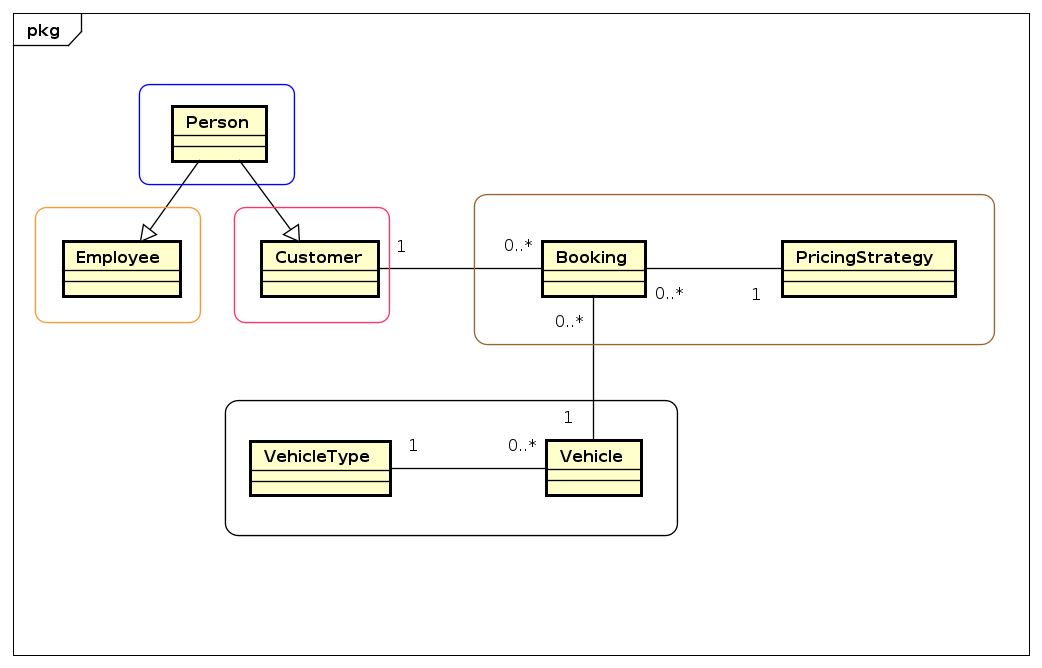
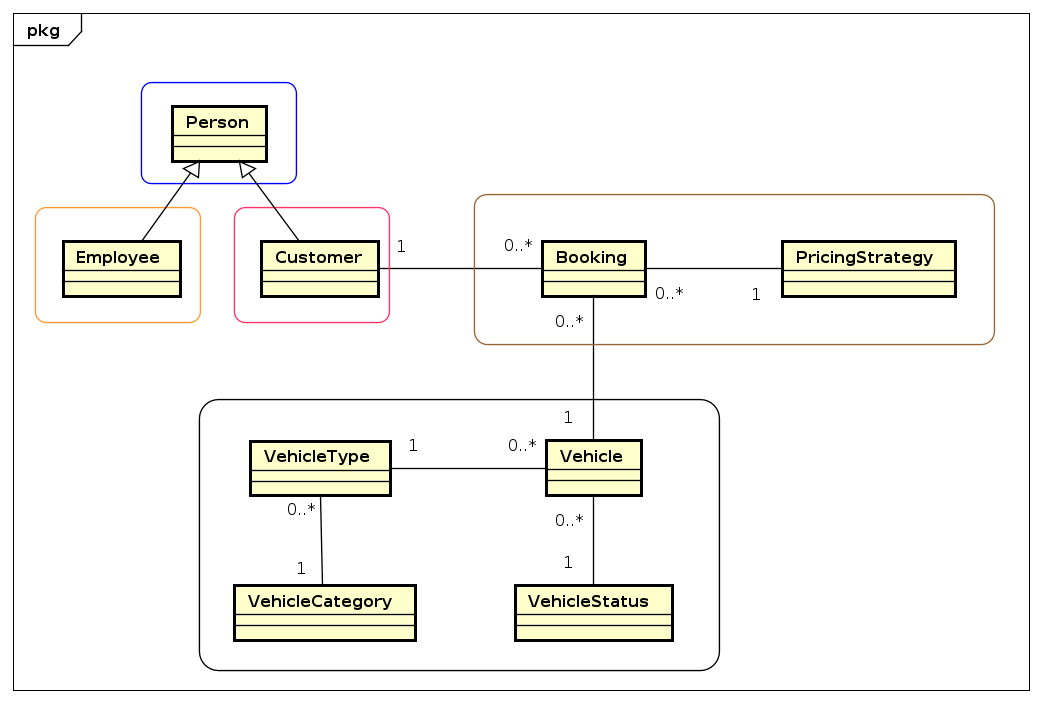
Revisar siglas

diff --git a/textual/t2-fundamentacao.tex b/textual/t2-fundamentacao.tex
@@ -1,7 +1,7 @@
 \chapter{Fundamentação Teórica}
 \label{cap:fundamentacao}
 
-Este capítulo apresenta os conceitos de Sistemas Distribuídos, \acrfull{soa} Microsserviços, \acrfull{ddd} e Arquitetura Hexagonal.
+Este capítulo apresenta os conceitos de Sistemas Distribuídos, \acrfull{soa} Microsserviços, \acrshort{ddd} e Arquitetura Hexagonal.
 
 \section{\english{Domain-Driven Design (DDD)}} 
 \english{\acrfull{ddd}} é uma abordagem para o desenvolvimento de software focada na construção de um modelo de domínio que representa de maneira sofisticada os processos e regras de negócio do sistema em questão \cite{dddFowler}. \acrshort{ddd} é muito efetivo para desenvolver sistemas com regras de negócio complexas, que possuem, por exemplo, diversos atores, entidades e validações. A \acrfull{poo} é geralmente empregada para a implementação do modelo de domínio, visto que possui uma série de recursos que facilitam a modelagem de objetos do mundo real \cite{evans2004ddd}.
@@ -14,10 +14,10 @@ O nome dessa estrategia vem de um livro publicado em \citeyear{evans2004ddd} por
 Os conceitos de modelo e domínio, no contexto da engenharia de software, são fundamentais para o entendimento do \acrshort{ddd}. Modelo é uma simplificação, uma interpretação da realidade que abstrai os aspectos relevantes para resolver o problema em questão e ignora detalhes superficiais \cite{evans2004ddd}. Da mesma forma, todo sistema computacional está relacionado a alguma atividade ou interesse do usuário final. Assim, a área para qual o usuário utiliza o sistema é domínio do software \cite{evans2004ddd}. Alguns exemplos de domínios comuns são: financeiro, médico, logística e \english{marketplace}.
 
 \subsection{Entidade}
-No contexto da \acrfull{poo}, muitos objetos não são fundamentalmente definidos por seus atributos, mas por um fio de continuidade e identidade \cite{evans2004ddd}. Eles podem ter distintas representações como, por exemplo, em memória ou em um banco de dados. No entanto, eles necessitam ser distinguíveis mesmo se todas suas propriedades forem iguais. Em um domínio financeiro, por exemplo, uma transação composta por valor, data e usuário necessita ser diferenciável de outra transação com as mesmas características. Por outro lado, para uma classe fictícia chamada \english{Money} composta por valor e moeda, dois objetos com os mesmos atributos podem ser geralmente considerados iguais, sem gerar corrupções de dados ou impactos para os usuários finais do sistema. Em resumo, quando um objeto definido principalmente por sua identidade, ele é chamado de Entidade \cite{evans2004ddd}.
+No contexto da \acrshort{poo}, muitos objetos não são fundamentalmente definidos por seus atributos, mas por um fio de continuidade e identidade \cite{evans2004ddd}. Eles podem ter distintas representações como, por exemplo, em memória ou em um banco de dados. No entanto, eles necessitam ser distinguíveis mesmo se todas suas propriedades forem iguais. Em um domínio financeiro, por exemplo, uma transação composta por valor, data e usuário necessita ser diferenciável de outra transação com as mesmas características. Por outro lado, para uma classe fictícia chamada \english{Money} composta por valor e moeda, dois objetos com os mesmos atributos podem ser geralmente considerados iguais, sem gerar corrupções de dados ou impactos para os usuários finais do sistema. Em resumo, quando um objeto definido principalmente por sua identidade, ele é chamado de Entidade \cite{evans2004ddd}.
 
 \subsection{\english{\acrfull{vo}}}
-Muitos objetos não possuem identidade conceitual, sendo somente utilizados para descrever características de outro objeto. São objetos que descrevem coisas, classificados como \acrfull{vo} \cite{evans2004ddd}. Para um sistema de uma loja de roupas, por exemplo, um objeto que representa cor de cada peça formado pelas propriedades \english{red}, \english{green} e \english{blue}, não possui identidade. Não necessita ser diferenciável de outro objeto com as mesmas propriedades. Este objeto somente descreve uma característica de uma peça de roupa. É importante ressaltar, porém, que a diferenciação entre Entidade e \english{\acrlong{vo}} depende do contexto do software. Para um sistema de software de computação gráfica, a cor é um conceito chave no sistema e pode possuir identidade.
+Muitos objetos não possuem identidade conceitual, sendo somente utilizados para descrever características de outro objeto. São objetos que descrevem coisas, classificados como \acrshort{vo} \cite{evans2004ddd}. Para um sistema de uma loja de roupas, por exemplo, um objeto que representa cor de cada peça formado pelas propriedades \english{red}, \english{green} e \english{blue}, não possui identidade. Não necessita ser diferenciável de outro objeto com as mesmas propriedades. Este objeto somente descreve uma característica de uma peça de roupa. É importante ressaltar, porém, que a diferenciação entre Entidade e \english{\acrlong{vo}} depende do contexto do software. Para um sistema de software de computação gráfica, a cor é um conceito chave no sistema e pode possuir identidade.
 
 Pode-se pensar que é mais vantajoso sempre projetar os objetos do sistema como Entidade, pois adicionaria identidade, facilitaria o rastreamento de mudanças e agregaria mais recursos ao objeto. No entanto, a adição de identidade para objetos que não necessitam desta classificação pode prejudicar o desempenho do sistema, adicionar mais esforço de análise e aumentar a complexidade do modelo de domínio \cite{evans2004ddd}. Por esse motivo, recomenda-se a utilização de \acrshort{vo} sempre que for possível, pois se tratam de objetos mais fáceis de gerenciar.
 
@@ -41,7 +41,7 @@ Cada \english{Aggregate} possui uma raiz e uma delimitação, que define o que e
 
 \subsection{\acrfull{bc}}
 \label{section:bounded_context}
-Em grandes projetos, muitos modelos coexistem em diferentes contextos. Quando a base de código, no entanto, combina diferentes modelos sem que haja uma separação clara, o \english{software} se torna defeituoso, frágil e difícil de ser compreendido \cite{evans2004ddd}. Assim, é necessário especificar em qual o contexto um determinado modelo está sendo aplicado.  Assim, um \english{\acrfull{bc}} delimita a aplicabilidade de um modelo, de tal forma que os membros da equipe tenham um entendimento claro do que precisa ser consistente e a relação do modelo com outros contextos. Um \acrshort{bc} engloba tanto componentes de modelo como \english{Aggregates}, Entidades, \english{\acrlong{vo}}s e Serviços, quanto detalhes técnicos como persistência. É uma parte completa e funcional de software sob responsabilidade de uma única equipe.
+Em grandes projetos, muitos modelos coexistem em diferentes contextos. Quando a base de código, no entanto, combina diferentes modelos sem que haja uma separação clara, o \english{software} se torna defeituoso, frágil e difícil de ser compreendido \cite{evans2004ddd}. Assim, é necessário especificar em qual o contexto um determinado modelo está sendo aplicado.  Assim, um \acrshort{bc} delimita a aplicabilidade de um modelo, de tal forma que os membros da equipe tenham um entendimento claro do que precisa ser consistente e a relação do modelo com outros contextos. Um \acrshort{bc} engloba tanto componentes de modelo como \english{Aggregates}, Entidades, \english{\acrlong{vo}}s e Serviços, quanto detalhes técnicos como persistência. É uma parte completa e funcional de software sob responsabilidade de uma única equipe.
 
 Por exemplo, um \english{software} para um \english{e-commerce} possui um módulo que lida com pedidos, em que cada pedido contém um ou mais produtos. Da mesma forma, outra equipe é responsável por um módulo que realiza o gerenciamento de produtos em estoque. O conceito de um produto para um sistema de pedidos é distinto de uma aplicação de estoque. Enquanto este pode ter um enfoque no armazém, na categoria e no estoque do produto, aquele está mais preocupado com o preço, nome e disponibilidade. Assim, ao tratar esses dois conceitos da maneira igual, confusões e defeitos são gerados.
 
@@ -55,7 +55,7 @@ Diferentemente de sistemas monolíticos, nos quais todos os módulos estão inte
 
 Um dos principais desafios desse tipo de sistema é a concorrência e coordenação entre os componentes. Nessa abordagem, vários componentes podem estar operando simultaneamente e em diferentes locais físicos, o que gera problemas de concorrência, onde múltiplos processos tentam acessar os mesmos recursos compartilhados ou dados simultaneamente. Por esse motivo, torna-se essencial a coordenação entre esses processos para evitar conflitos e garantir a consistência dos dados.
 
-\subsection{\english{\acrfull{soa}}} 
+\subsection{{\acrfull{soa}}} 
 A arquitetura orientada a serviços ou \acrfull{soa} é estilo arquitetural no qual um sistema é dividido em componentes de software chamados de serviços, responsáveis por satisfazer uma necessidade de negócio específica.
 
 As políticas, práticas e \english{frameworks} permitem que a funcionalidade da aplicação seja fornecida e consumida como conjuntos de serviços publicados em uma granularidade relevante para o consumidor do serviço. Os serviços podem ser invocados, publicados e descobertos, e são abstraídos da implementação usando uma única forma de interface baseada em padrões \cite{understandingSOA}.
@@ -191,7 +191,7 @@ Quando serviços são fracamente acoplados, uma alteração em um serviço não 
 
 Visando a construção de serviços com alta coesão e baixo acoplamento, portanto estáveis, os conceitos de \acrshort{ddd} podem ser utilizados. Uma abordagem interessante e comumente aplicada é mapear um \nameref{section:bounded_context} para cada serviço \cite{buildingMicroservices}. Como os \hyperref[section:bounded_context]{Bounded Contexts} representam uma parte do domínio onde um modelo se aplica, eles permitem que microsserviços sejam modelados ao redor de uma secção coesa e completamente funcional que ofereça funcionalidades de negócio. Outra opção para modelagem de microsserviços é mapear cada \nameref{section:aggregate} para um serviço. Essa estratégia oferece um nível de granularidade menor que um \nameref{section:bounded_context}, visto que este geralmente engloba múltiplos \nameref{section:aggregate}s. No entanto, \citeonline{buildingMicroservices} sugere recorrer primeiro a delimitações maiores na construção de microsserviços, englobando um (ou até mais) \nameref{section:bounded_context}. Dessa forma, caso a equipe sinta necessidade de subdividir o serviço, poderá fazê-lo sem complicações.
 
-Apesar de \acrfull{ddd} ser uma excelente maneira de delimitar microsserviços, não é a única técnica disponível \cite{buildingMicroservices}. São listadas a seguir algumas alternativas frequentemente utilizadas:
+Apesar de \acrshort{ddd} ser uma excelente maneira de delimitar microsserviços, não é a única técnica disponível \cite{buildingMicroservices}. São listadas a seguir algumas alternativas frequentemente utilizadas:
 \begin{itemize}
     \item \textbf{Volatilidade:} decomposição baseada em volatilidade refere-se a uma abordagem, na qual partes do sistema que são frequentemente alteradas são extraídas em seus próprios serviços, de forma que possam ser trabalhadas de maneira mais efetiva. Essa estratégia por ser útil em organizações com ritmo de mudanças acelerado. No entanto, se o objetivo da utilização da \acrshort{ams} é a possibilidade de escalar partes do sistema de maneira independente, decomposição baseada em volatilidade não atingirá a meta.
     \item \textbf{Dados:} a natureza das informações que necessitam ser armazenadas pode direcionar a estratégia de decomposição. Por exemplo, é muito usual restringir quais microsserviços podem acessar informações de identificação pessoal para cumprir com legislações como a Lei Geral de Proteção de Dados Pessoais.
@@ -206,7 +206,7 @@ Certamente, não há nenhuma tecnologia que não possua limitações. Isso não 
 
 Primeiramente, como microsserviços baseiam-se no conceito de \nameref{section:sistemas_distribuidos}, uma série de novos problemas estão presentes nessa arquitetura. Como os serviços necessitam utilizar algum mecanismo de \acrshort{ipc}, há um grande aumento na complexidade do ciclo de desenvolvimento como um todo. \acrshort{ide}s e outras ferramentas de desenvolvimento possuem maior foco no desenvolvimento de aplicações monolíticas. Adicionalmente, escrever testes automatizados envolvendo múltiplos serviços é uma tarefa complexa. Além disso, a \acrshort{ams} introduz dificuldades significantes de operação, como necessidade de alto nível de automação e ferramentas de monitoramento avançadas. Assim, uma equipe técnica altamente qualificada se torna necessária, podendo inclusive ser útil a contratação de consultorias especializadas nessa tecnologia \cite{richardson2018microservices}.
 
-Por outro lado, a \acrfull{ams} engloba desafios para manter a consistência dos dados. Enquanto em um sistema monolítico, dados são usualmente armazenados em uma única base de dados relacional, que oferece suporte a transações \acrshort{acid}, em um sistema distribuído, no qual múltiplos banco de dados - possivelmente de tipos e fornecedores diferentes - são empregados, esse tipo de segurança não pode ser atingido facilmente \cite{buildingMicroservices}. Transações distribuídas podem ser aplicadas para reduzir problemas de consistência, no entanto, essas técnicas adicionam grande complexidade ao sistema \cite{buildingMicroservices}.
+Por outro lado, a \acrshort{ams} engloba desafios para manter a consistência dos dados. Enquanto em um sistema monolítico, dados são usualmente armazenados em uma única base de dados relacional, que oferece suporte a transações \acrshort{acid}, em um sistema distribuído, no qual múltiplos banco de dados - possivelmente de tipos e fornecedores diferentes - são empregados, esse tipo de segurança não pode ser atingido facilmente \cite{buildingMicroservices}. Transações distribuídas podem ser aplicadas para reduzir problemas de consistência, no entanto, essas técnicas adicionam grande complexidade ao sistema \cite{buildingMicroservices}.
 
 \section{Arquitetura Hexagonal} 
 \label{section:hexagonal}
@@ -224,7 +224,7 @@ Na \autoref{fig:arquitetura_hexagonal}, pode-se observar que a injeção de agen
 
 Outros benefícios importantes, além do isolamento das regras de negócio, são: facilidade de testar o núcleo da aplicação com a utilização de \english{mocks} e \english{stubs}; possibilidade de utilização da mesma aplicação via interfaces de usuário, testes automatizados e \english{batches}.
 
-Enquanto a \acrfull{ams} visa organizar um sistema como um conjunto de serviços independentes, cada um executando uma função específica, a arquitetura hexagonal concentra-se na organização interna de um serviço, propondo uma separação clara entre a lógica de negócios e as implementações técnicas, usando portas e adaptadores. Por outro lado, \acrshort{ddd} apresenta-se como uma excelente abordagem para desenvolvimento do núcleo da aplicação na arquitetura hexagonal. Assim, esses três conceitos: microsserviços, arquitetura hexagonal e \acrshort{ddd} podem ser combinados para o desenvolvimento de sistemas altamente coesos, desacoplados, escaláveis, inteligíveis e sustentáveis.
+Enquanto a \acrshort{ams} visa organizar um sistema como um conjunto de serviços independentes, cada um executando uma função específica, a arquitetura hexagonal concentra-se na organização interna de um serviço, propondo uma separação clara entre a lógica de negócios e as implementações técnicas, usando portas e adaptadores. Por outro lado, \acrshort{ddd} apresenta-se como uma excelente abordagem para desenvolvimento do núcleo da aplicação na arquitetura hexagonal. Assim, esses três conceitos: microsserviços, arquitetura hexagonal e \acrshort{ddd} podem ser combinados para o desenvolvimento de sistemas altamente coesos, desacoplados, escaláveis, inteligíveis e sustentáveis.
 
 
 

diff --git a/textual/t1-introducao.tex b/textual/t1-introducao.tex
@@ -3,28 +3,28 @@
 
 \section{Problema e contexto}
 
-A abordagem convencional no desenvolvimento de sistemas corporativos, na qual toda a lógica de negócio, persistência e apresentação são encapsuladas em uma única aplicação (e um único executável), é a mais natural para construção desse tipo de sistema. Essa arquitetura, conhecida comumente como monólito, tem alcançado sucesso devido à sua simplicidade no desenvolvimento, testes, implantação e monitoramento, entre outros fatores. No entanto, com a popularização da computação em nuvem, a crescente demanda de mudanças cada vez mais frequentes e o crescimento das equipes de tecnologia da informação em grandes organizações, essa arquitetura é confrontada com desafios significativos. Inicialmente, destaca-se o acoplamento nos ciclos de mudanças, onde qualquer alteração em uma pequena parte requer a compilação e implantação de todo sistema. Além disso, há dificuldade em escalar horizontalmente apenas funcionalidades específicas que estão sendo mais demandas e existe complexidade na utilização de diferentes linguagens de programação em diversas áreas de um sistema \cite{microservices}. Por esses motivos, a adoção da \acrlong{ams} cresceu de forma exponencial nos últimos anos, com 77\% dos profissionais afirmando que suas organizações utilizam esse estilo arquitetural \cite{microserviceAdoption}.
+A abordagem convencional no desenvolvimento de sistemas corporativos, na qual toda a lógica de negócio, persistência e apresentação são encapsuladas em uma única aplicação (e um único executável), é a mais natural para construção desse tipo de sistema. Essa arquitetura, conhecida comumente como monólito, tem alcançado sucesso devido à sua simplicidade no desenvolvimento, testes, implantação e monitoramento, entre outros fatores. No entanto, com a popularização da computação em nuvem, a crescente demanda de mudanças cada vez mais frequentes e o crescimento das equipes de tecnologia da informação em grandes organizações, essa arquitetura é confrontada com desafios significativos. Inicialmente, destaca-se o acoplamento nos ciclos de mudanças, onde qualquer alteração em uma pequena parte requer a compilação e implantação de todo sistema. Além disso, há dificuldade em escalar horizontalmente apenas funcionalidades específicas que estão sendo mais demandas e existe complexidade na utilização de diferentes linguagens de programação em diversas áreas de um sistema \cite{microservices}. Por esses motivos, a adoção da \acrfull{ams} cresceu de forma exponencial nos últimos anos, com 77\% dos profissionais afirmando que suas organizações utilizam esse estilo arquitetural \cite{microserviceAdoption}.
 
 Por outro lado, \english{\acrfull{ddd}} é uma abordagem para o desenvolvimento de software, na qual os elementos de software como pacotes, classes, interfaces, métodos e nomes de variáveis devem corresponder aos conceitos do domínio de negócio \cite{dddFowler}. Adicionalmente, o \acrshort{ddd} se configura como uma estratégia para harmonizar especialistas de negócios, desenvolvedores e projetistas, promovendo uma otimização nas interações ao reduzir o mapeamento entre termos de negócio e termos técnicos.
 
 Em agosto de 2008, um grande incidente interrompeu as operações da \emph{Netflix}, empresa que nesse período alugava DVDs através de seu site na \english{web}. Uma corrupção no banco de dados impediu que a companhia pudesse realizar envios por três dias. A partir desse momento, os engenheiros perceberam que necessitavam reduzir pontos únicos de falha, tais como grandes bases de dados relacionais armazenadas em somente um \english{data center}. Em vez disso, optaram por adotar sistemas distribuídos na nuvem, escalonados horizontalmente, para garantir maior confiabilidade e minimizar o impacto das falhas \cite{netflixMigration}.
 
-Essa transição resultou em vários benefícios para a \emph{Netflix}, destacando-se a conquista de uma disponibilidade de 'quatro noves' (99,99\%) e significativa redução de custos. Além disso, a \acrfull{ams} permitiu que diferentes aplicações utilizassem diferentes tecnologias, facilitando contratações e extraindo o melhor de cada opção. Assim, em 2016 (8 anos após a migração) a empresa tinha 8 vezes mais assinantes, muito mais ativos, com o número de visualizações crescendo em três ordens de grandeza nesse período \cite{netflixMigration}.
+Essa transição resultou em vários benefícios para a \emph{Netflix}, destacando-se a conquista de uma disponibilidade de 'quatro noves' (99,99\%) e significativa redução de custos. Além disso, a \short{ams} permitiu que diferentes aplicações utilizassem diferentes tecnologias, facilitando contratações e extraindo o melhor de cada opção. Assim, em 2016 (8 anos após a migração) a empresa tinha 8 vezes mais assinantes, muito mais ativos, com o número de visualizações crescendo em três ordens de grandeza nesse período \cite{netflixMigration}.
 
-A \acrfull{ams} e \acrshort{ddd} podem ser combinados no \english{design} e desenvolvimento de sistemas. De um lado, microsserviços possibilitam escalabilidade independente, implantação desacoplada e utilização de múltiplas tecnologias para determinados casos de uso. Por outro lado, \acrshort{ddd} fornece uma abordagem para modelagem do domínio de negócio, diversos padrões para resolver problemas de modelagem recorrentes e facilidade de entendimento e manutenção de código. Além disso, \acrshort{ddd} é uma excelente estratégia para definição de limites entre microsserviços. Ao modelar os serviços com base em \english{\acrlong{bc}}s coesos, é possível o desenvolvimento de novas funcionalidades mais rapidamente e também se torna mais simples a recombinação de microsserviços para fornecer novas funcionalidades aos usuários \cite{buildingMicroservices}.
+A \acrshort{ams} e \acrshort{ddd} podem ser combinados no \english{design} e desenvolvimento de sistemas. De um lado, microsserviços possibilitam escalabilidade independente, implantação desacoplada e utilização de múltiplas tecnologias para determinados casos de uso. Por outro lado, \acrshort{ddd} fornece uma abordagem para modelagem do domínio de negócio, diversos padrões para resolver problemas de modelagem recorrentes e facilidade de entendimento e manutenção de código. Além disso, \acrshort{ddd} é uma excelente estratégia para definição de limites entre microsserviços. Ao modelar os serviços com base em \english{\acrfull{bc}}s coesos, é possível o desenvolvimento de novas funcionalidades mais rapidamente e também se torna mais simples a recombinação de microsserviços para fornecer novas funcionalidades aos usuários \cite{buildingMicroservices}.
 
 \section{Justificativa}
 
-Recentemente, observou-se um notável crescimento em popularidade e adoção da \acrshort{ams} e da abordagem \english{\acrfull{ddd}} no desenvolvimento de sistemas corporativos. Porém, essas tecnologias são utilizadas de maneira equivocada em muitas implementações devido à falta de compreensão das suas vantagens e desvantagens, entre outros fatores. Por exemplo, a equipe de desenvolvimento do \emph{Amazon Prime Video} recentemente anunciou uma migração de um serviço de monitoramento de vídeo, que foi inicialmente desenvolvido com microsserviços, para uma arquitetura monolítica com objetivo de aumentar a escalabilidade e reduzir custos \cite{amazonBackMigration}.
+Recentemente, observou-se um notável crescimento em popularidade e adoção da \acrshort{ams} e da abordagem \acrshort{ddd} no desenvolvimento de sistemas corporativos. Porém, essas tecnologias são utilizadas de maneira equivocada em muitas implementações devido à falta de compreensão das suas vantagens e desvantagens, entre outros fatores. Por exemplo, a equipe de desenvolvimento do \emph{Amazon Prime Video} recentemente anunciou uma migração de um serviço de monitoramento de vídeo, que foi inicialmente desenvolvido com microsserviços, para uma arquitetura monolítica com objetivo de aumentar a escalabilidade e reduzir custos \cite{amazonBackMigration}.
 
-Paralelamente a isso, é possível identificar uma carência de estudos de caso realistas envolvendo a utilização simultânea da \acrshort{ams} e \english{\acrfull{ddd}}, especialmente no cenário nacional.  Enquanto algumas publicações concentram-se exclusivamente em um desses conceitos e outras apresentam exemplos simplificados, proporcionando uma compreensão limitada de como essas duas técnicas podem ser efetivamente empregadas em conjunto. 
+Paralelamente a isso, é possível identificar uma carência de estudos de caso realistas envolvendo a utilização simultânea da \acrshort{ams} e \acrshort{ddd}, especialmente no cenário nacional.  Enquanto algumas publicações concentram-se exclusivamente em um desses conceitos e outras apresentam exemplos simplificados, proporcionando uma compreensão limitada de como essas duas técnicas podem ser efetivamente empregadas em conjunto. 
 
 Nesse contexto, este trabalho visa preencher essa lacuna ao oferecer uma contribuição significativa para a compreensão da aplicação integrada dessas estratégias no desenvolvimento de sistemas. Por meio de um estudo de caso realista, busca-se não apenas enriquecer o conhecimento acadêmico, mas também fornecer uma base sólida para a implementação prática dessas tecnologias em diversos setores da indústria.
 
 \section{Objetivos}
 
 \subsection{Objetivo Geral}
-O objetivo geral deste trabalho de conclusão de curso é apresentar um estudo de caso realista integrando a \acrlong{ams} e \acrlong{ddd}, visando demonstrar como essas tecnologias podem ser utilizadas para aumentar a escalabilidade, desempenho e resiliência de sistemas complexos.
+O objetivo geral deste trabalho de conclusão de curso é apresentar um estudo de caso realista integrando a \acrshort{ams} e \acrshort{ddd}, visando demonstrar como essas tecnologias podem ser utilizadas para aumentar a escalabilidade, desempenho e resiliência de sistemas complexos.
 
 
 \subsection{Objetivos Específicos}

diff --git a/textual/t5-estudo-caso2.tex b/textual/t5-estudo-caso2.tex
@@ -29,12 +29,12 @@ Inicialmente, é importante definir os conceitos chave do sistema, bem como seus
     \label{fig:modelo_conceitual}
 \end{figure}
 
-O sistema tem como componente principal a entidade \texit{Booking} que está relacionada com um \english{Vehicle} e um \english{Customer}. Cada \english{Vehicle} possui um \english{VehicleType} que tem como função agrupar veículos com características similares. Além disso, cada reserva contém uma \english{PricingStrategy} que é responsável por calcular o preço da reserva baseado em diferentes critérios. Um \english{Customer} é um subtipo de \english{Person}. Da mesma forma, o \english{Employee} é um subtipo de \english{Person}.
+O sistema tem como componente principal a entidade \texit{Booking} que está relacionada com um \english{Vehicle} e um \english{Customer}. Cada \english{Vehicle} possui um \english{VehicleType} que tem como função agrupar veículos com características similares. O \english{VehicleType}, por sua vez, está associado a um \english{VehicleCategory} como \english{Hatch} ou \english{SUV}. O veículo também tem um \english{VehicleStatus} que define o estado atual de um veículo específico. Além disso, cada reserva contém uma \english{PricingStrategy} que é responsável por calcular o preço da reserva baseado em diferentes critérios. Um \english{Customer} é um subtipo de \english{Person}. Da mesma forma, o \english{Employee} é um subtipo de \english{Person}.
 
-No contexto deste caso de uso, as abstrações \english{Booking}, \english{Vehicle}, \english{Customer}, \english{Person} e \english{Employee} possuem identidade e ciclo de vida próprios. Portanto, são entidades. Por outro lado, \english{VehicleType} e \english{PricingStrategy} são \acrfull{vo}, pois não possuem identidade própria e são imutáveis. 
+No contexto deste caso de uso, as abstrações \english{Booking}, \english{Vehicle}, \english{Customer}, \english{Person} e \english{Employee} possuem identidade e ciclo de vida próprios. Portanto, são entidades. Por outro lado, \english{VehicleType}, \english{VehicleCategory}, \english{VehicleStatus} e \english{PricingStrategy} são \acrfull{vo}, pois não possuem identidade própria e são imutáveis. 
 
 \subsection{Bounded Contexts}
-Após ter identificado as entidades e \acrfull{vo}, é necessário definir os \acrfull{bc} do sistema. \citeonline{evans2004ddd} define \acrshort{bc} como um limite lógico dentro do qual um modelo é consistente. Além disso, cada \acrshort{bc} possui um ou mais \english{Aggregates}. Nesse sentido, a \autoref{fig:bounded_contexts} ilustra os \acrshort{bc} do sistema.
+Após ter identificado as entidades e \acrshort{vo}, é necessário definir os \acrshort{bc} do sistema. \citeonline{evans2004ddd} define \acrshort{bc} como um limite lógico dentro do qual um modelo é consistente. Além disso, cada \acrshort{bc} possui um ou mais \english{Aggregates}. Nesse sentido, a \autoref{fig:bounded_contexts} ilustra os \acrshort{bc} do sistema.
 
 \begin{figure}[H]
     \centering
@@ -83,7 +83,7 @@ A seguir são detalhadas as interações entre os microsserviços para os princi
 \end{figure}
 
 \subsubsection{Criar reserva}
-A \autoref{fig:realizar-reserva} ilustra o fluxo de criação de uma reserva. Inicialmente, o cliente realiza o login no \english{User Service} e recebe um token como resposta. Em seguida, ele acessa o \english{Inventory Service} para verificar a disponibilidade de veículos. Esse verifica se o usuário está autenticado realizando uma chamada para o \english{User Service}. Caso o usuário esteja autenticado, o \english{Inventory Service} retorna a lista de veículos disponíveis. Posteriormente, O cliente seleciona um veículo e realiza a reserva no \english{Booking Service}. Esse serviço envia uma requisição para o \english{Inventory Service} para decrementar a quantidade de veículos disponíveis e confirmar a reserva. Por fim, o \english{Booking Service} retorna a confirmação da reserva.
+A \autoref{fig:realizar-reserva} ilustra o fluxo de criação de uma reserva. Inicialmente, o cliente realiza o login no \english{User Service} e recebe um token de autenticação como resposta. Em seguida, ele acessa o \english{Inventory Service} para verificar a disponibilidade de veículos. Esse verifica se o usuário está autenticado realizando uma chamada para o \english{User Service}. Caso o usuário esteja autenticado, o \english{Inventory Service} retorna a lista de veículos disponíveis. Posteriormente, O cliente seleciona um veículo e realiza a reserva no \english{Booking Service}. Esse serviço envia uma requisição para o \english{Inventory Service} para decrementar a quantidade de veículos disponíveis e confirmar a reserva. Por fim, o \english{Booking Service} retorna a confirmação da reserva.
 
 \begin{figure}[H]
     \centering
@@ -94,7 +94,7 @@ A \autoref{fig:realizar-reserva} ilustra o fluxo de criação de uma reserva. In
 \end{figure}
 
 \subsubsection{Realizar check-in}
-A \autoref{fig:realizar-checkin} ilustra o fluxo de realizar um check-in. Primeiramente, o funcionário realiza o login no \english{User Service} e recebe um token como resposta. Em seguida, ele acessa o \english{Booking Service} para realizar o check-in. Esse serviço verifica se o usuário está autenticado realizando uma chamada para o \english{User Service}. Caso o usuário esteja autenticado, o \english{Booking Service} realiza o check-in e retorna a confirmação.
+A \autoref{fig:realizar-checkin} ilustra o fluxo de realizar um check-in. Primeiramente, o funcionário realiza o login no \english{User Service} e recebe um token de autenticação como resposta. Em seguida, ele acessa o \english{Booking Service} para realizar o check-in. Esse serviço verifica se o usuário está autenticado realizando uma chamada para o \english{User Service}. Caso o usuário esteja autenticado, o \english{Booking Service} realiza o check-in e retorna a confirmação.
 
 \begin{figure}[H]
     \centering
@@ -105,7 +105,7 @@ A \autoref{fig:realizar-checkin} ilustra o fluxo de realizar um check-in. Primei
 \end{figure}
 
 \subsubsection{Realizar check-out}
-A \autoref{fig:realizar-checkout} ilustra o fluxo de realizar um check-out. Inicialmente, o funcionário realiza a autenticação no \english{User Service} e recebe um token como resposta. Posteriormente, ele acessa o \english{Booking Service} para realizar o check-out. Esse serviço verifica se o usuário está autenticado realizando uma chamada para o \english{User Service}. Caso o usuário esteja autenticado, o \english{Booking Service} realiza o check-out e retorna a confirmação.
+A \autoref{fig:realizar-checkout} ilustra o fluxo de realizar um check-out. Inicialmente, o funcionário realiza a autenticação no \english{User Service} e recebe um token de autenticação como resposta. Posteriormente, ele acessa o \english{Booking Service} para realizar o check-out. Esse serviço verifica se o usuário está autenticado realizando uma chamada para o \english{User Service}. Caso o usuário esteja autenticado, o \english{Booking Service} realiza o check-out e retorna a confirmação.
 
 \begin{figure}[H]
     \centering

diff --git a/textual/t6-resultados.tex b/textual/t6-resultados.tex
@@ -53,13 +53,13 @@ Na \autoref{fig:error-rate} é possível observar a porcentagem de erros durante
 Como trabalhos futuros, é possível destacar a construção de novos estudos de caso com a utilização de \acrshort{ddd} e \acrshort{ams} em outros contextos complexos como, por exemplo, sistemas financeiros, sistemas de logísticas e sistemas de saúde. Além disso, um trabalho futuro interessante seria a comparação de entre dois sistemas de domínios iguais, um desenvolvido com as técnicas apresentadas nesse trabalho e um outro somente com \acrshort{ddd} ou \acrshort{ams}. Assim, seria possível quantificar os benefícios e desvantagens da utilização dessas tecnologias em conjunto.
 
 \section{Discussões}
-Essa seção apresenta uma discussão geral sobre o processo de desenvolvimento do caso de uso com a utilização da \acrfull{ams} e \acrfull{ddd}. A utilização dessas tecnologias trouxe diversos desafios e benefícios ao desenvolvimento do sistema.
+Essa seção apresenta uma discussão geral sobre o processo de desenvolvimento do caso de uso com a utilização da \acrshort{ams} e \acrshort{ddd}. A utilização dessas tecnologias trouxe diversos desafios e benefícios ao desenvolvimento do sistema.
 
-A separação de serviços em microsserviços permitiu que cada parte do sistema fosse desenvolvida de forma independente, facilitando a manutenção e evolução do sistema. Além disso, a utilização de \acrfull{ddd} permitiu que o domínio do negócio fosse modelado de forma mais clara e eficiente, facilitando o entendimento do sistema como um todo.
+A separação de serviços em microsserviços permitiu que cada parte do sistema fosse desenvolvida de forma independente, facilitando a manutenção e evolução do sistema. Além disso, a utilização de \acrshort{ddd} permitiu que o domínio do negócio fosse modelado de forma mais clara e eficiente, facilitando o entendimento do sistema como um todo.
 
 Da mesma forma, como cada microsserviço tem um foco específico, se torna mais fácil o entendimento de como cada parte do sistema funciona. Isso também facilita a escalabilidade do sistema, uma vez que é possível escalar apenas os serviços que estão sobrecarregados.
 
-A utilização de \acrfull{ams} e \acrfull{ddd} trouxe diversos desafios ao desenvolvimento do sistema. O maior deles foi a necessidade de um maior esforço de \english{design upfront} para garantir a correta separação de serviços e a definição do domínio do negócio. Isso se deve ao fato de que a separação de serviços em microsserviços e a utilização de \acrfull{ddd} requerem um maior entendimento do negócio e da arquitetura do sistema.
+A utilização de \acrshort{ams} e \acrshort{ddd} trouxe diversos desafios ao desenvolvimento do sistema. O maior deles foi a necessidade de um maior esforço de \english{design upfront} para garantir a correta separação de serviços e a definição do domínio do negócio. Isso se deve ao fato de que a separação de serviços em microsserviços e a utilização de \acrshort{ddd} requerem um maior entendimento do negócio e da arquitetura do sistema.
 
 Além disso, a complexidade aumentada para criação e execução de testes também foi um desafio. Como cada microsserviço é um sistema independente, é necessário criar testes para cada parte do sistema, o que aumenta a complexidade dos testes.
 
